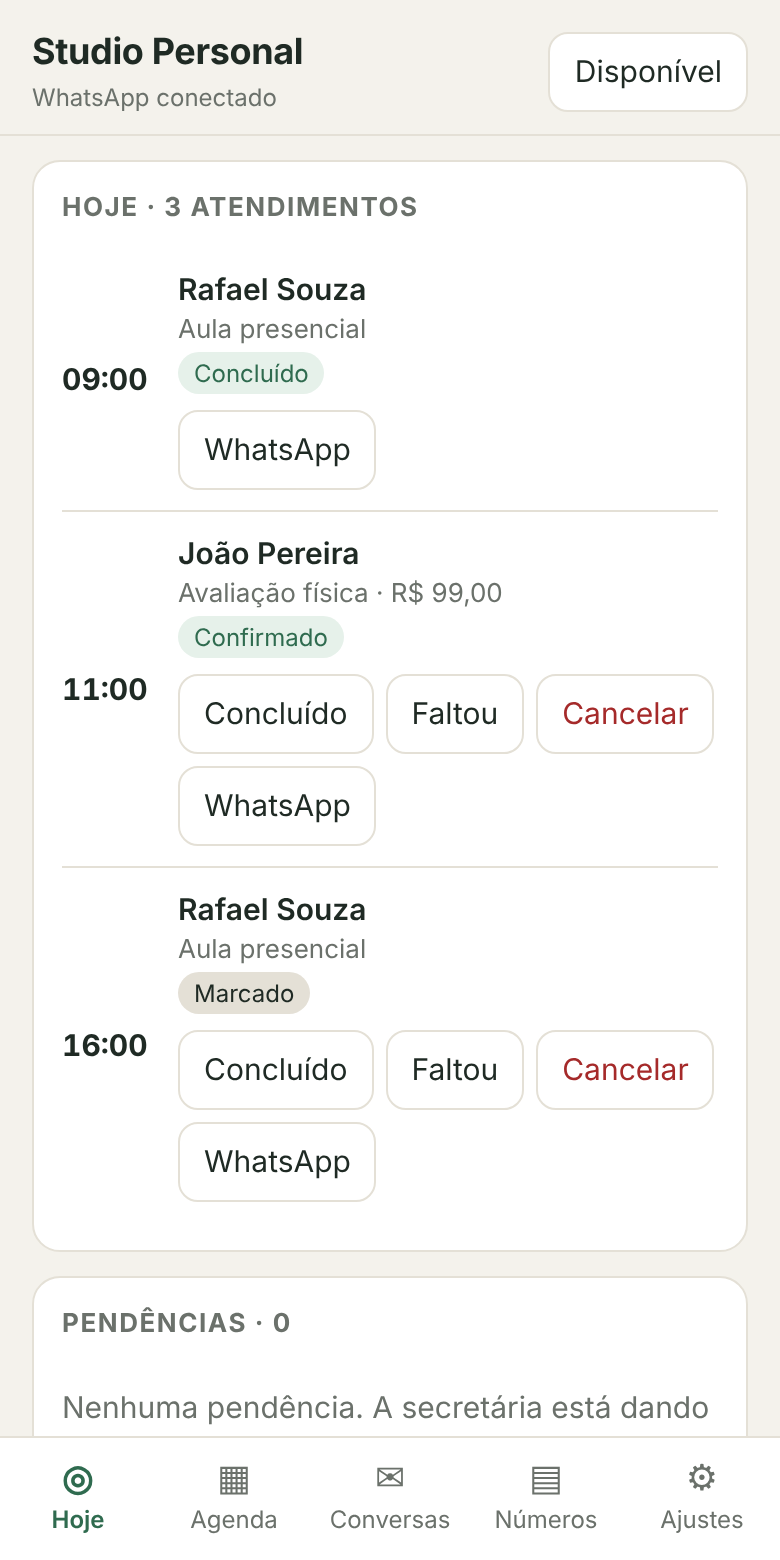
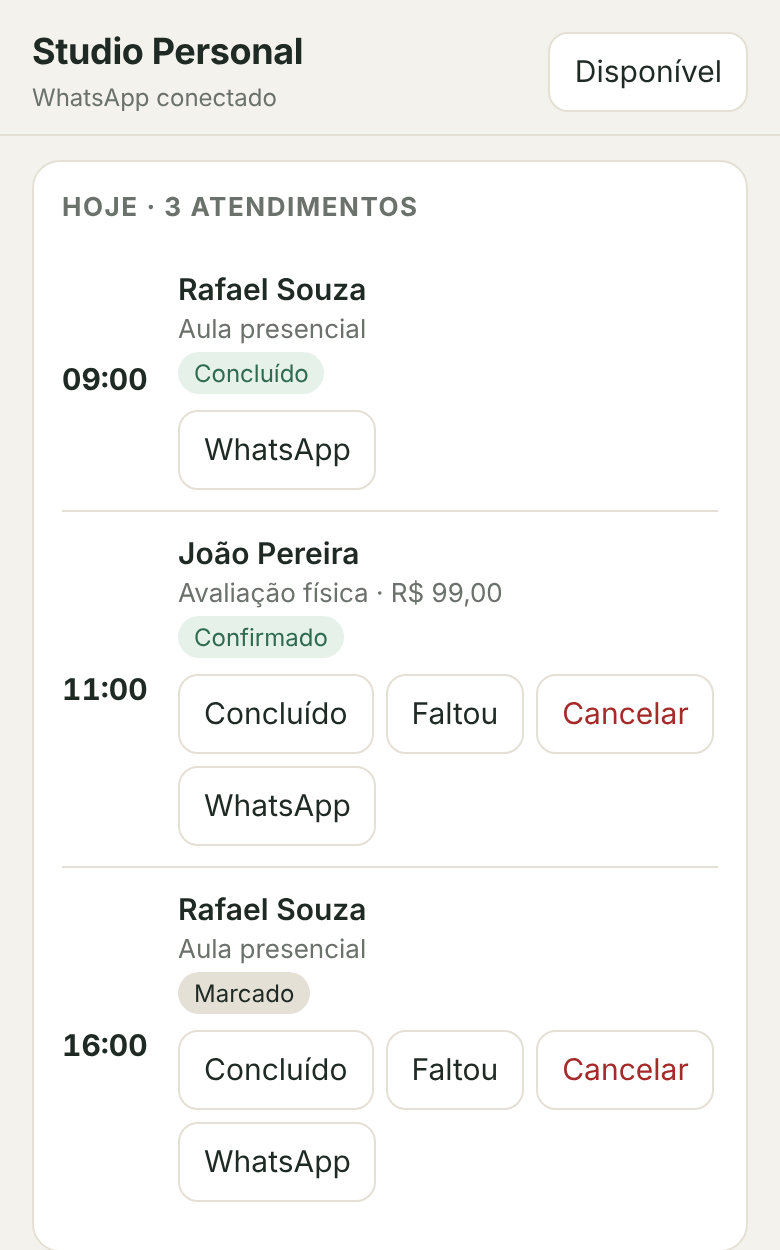
Texto da página inicial mais curto e com preço do site (#42)
- título: "Sistemas sob medida para pequenos negócios: atendimento, agenda e
  finanças"; abertura com a definição de sob medida
- soluções como exemplos, não pacotes; cartões com nome e uma frase
- comparação com 4 linhas; etapas com título e uma frase
- "Quem faz" com o essencial do fundador
- perguntas: de 11 para 7, com "O que é um sistema sob medida?" na frente,
  site simples a partir de R$ 1.500 e no ar em até 10 dias depois que o
  cliente aprova a versão final
- marcIA pode informar só esse preço e esse prazo; o resto segue na proposta
- página de 1.316 para 611 palavras

Claude-Session: https://claude.ai/code/session_01G98QT6YPnmbav7dBjAuo4g

diff --git a/src/data/site.ts b/src/data/site.ts
@@ -31,7 +31,7 @@ export const contact = {
   whatsapp: `https://wa.me/${whatsappNumber}?text=${encodeURIComponent(whatsappMessage)}`,
   instagramProfile: 'https://www.instagram.com/pfc.solucoes/',
   email: 'contato@pfcsolucoes.com.br',
-  ctaLabel: 'Contar meu problema para a marcIA',
+  ctaLabel: 'Conversar com a marcIA',
 };
 
 // Atendente de IA do site (primeiro contato). Instruções em src/lib/assistant/.
@@ -83,15 +83,14 @@ export const footer = {
 // (o que oferecemos, como melhora a vida dele, o que fazer agora).
 
 export const hero = {
-  eyebrow: 'Sistemas sob medida para autônomos e pequenas empresas',
-  title: 'Atendimento por IA no WhatsApp',
-  highlight: 'e agenda online para pequenos negócios.',
-  lead: 'Primeiro entendemos como o seu negócio funciona hoje. Depois construímos só o que resolve o seu maior problema, e você usa pelo celular.',
+  title: 'Sistemas sob medida para pequenos negócios:',
+  highlight: 'atendimento, agenda e finanças',
+  lead: 'Cada sistema é feito de acordo com a necessidade do seu negócio, nada genérico. Você usa tudo pelo celular.',
   primaryCta: 'Conversar com a marcIA',
-  secondaryCta: { href: '#solucoes', label: 'Ver o que já entregamos' },
+  secondaryCta: { href: '#solucoes', label: 'Ver exemplos' },
   // Print real da marcIA (conversa de teste no site em produção).
   shotCaption: 'A marcIA, atendente com IA deste site, numa conversa de teste.',
-  note: 'A marcIA é a nossa atendente virtual. A conversa é sem compromisso.',
+  note: 'Conversa sem compromisso com a nossa atendente virtual.',
 };
 
 // Tipos de negócio atendidos: faixa logo abaixo do topo.
@@ -136,27 +135,20 @@ export type Solution = {
   title: string;
   description: string;
   features: string[];
-  project: string;
+  project?: string;
 };
 
 export const solutions = {
-  title: 'Sistemas sob medida que já construímos para pequenos negócios',
-  lead: 'Estes são os sistemas que já entregamos. O seu parte do mesmo ponto: do problema que você tem hoje, não de uma lista.',
-  closing: 'Seu caso não está aqui? Já fizemos de agenda de barbearia a app de finanças.',
-  more: 'Conte qual é para a marcIA',
+  title: 'Exemplos do que já construímos',
+  lead: 'Cada projeto parte da necessidade de quem contrata. Estes são exemplos, não pacotes prontos.',
+  closing: 'Precisa de outra coisa?',
+  more: 'Conte para a marcIA',
   items: [
     {
       area: 'Atendimento',
-      title: 'Agente de IA no WhatsApp: responde e marca horário quando você não pode',
-      description: 'Conversa com o seu cliente em linguagem natural, inclusive à noite e no fim de semana, e cuida da agenda por você.',
-      features: [
-        'Entende pedidos como "amanhã depois das 18" e marca, remarca ou cancela na agenda real',
-        'Manda o Pix do sinal na própria conversa',
-        'Lembra o cliente na véspera, com botão para confirmar',
-        'Quando alguém desmarca, oferece o horário para quem está na fila de espera',
-        'Você acompanha agenda e conversas por um painel no celular',
-      ],
-      project: 'Agente de IA no WhatsApp com painel para o dono',
+      title: 'Agente de IA no WhatsApp',
+      description: 'Responde, marca, remarca e cancela na agenda real, a qualquer hora.',
+      features: ['Envia o Pix do sinal na conversa', 'Lembra o cliente na véspera', 'Oferece o horário vago para a fila de espera'],
       shot: {
         file: 'painel-hoje',
         alt: 'Tela Hoje do painel no celular: três atendimentos do dia com horário, cliente, serviço e botões Concluído, Faltou e Cancelar',
@@ -165,32 +157,21 @@ export const solutions = {
     },
     {
       area: 'Agenda',
-      title: 'Agenda online: o cliente marca sozinho pelo celular',
-      description: 'Uma página de agendamento só sua, com os seus serviços e horários.',
-      features: [
-        'Mostra só os horários em que o atendimento inteiro cabe',
-        'Reconhece quem já agendou naquele celular',
-        'Você recebe o aviso no WhatsApp, com a mensagem pronta',
-        'Horário cancelado volta a ficar livre na hora',
-      ],
-      project: 'Agenda online para barbearia',
+      title: 'Agenda online',
+      description: 'O cliente escolhe serviço e horário pelo celular. Só aparecem horários em que o atendimento inteiro cabe.',
+      features: [],
     },
     {
       area: 'Finanças',
-      title: 'App de controle financeiro: entradas, saídas e contas fixas no celular',
-      description: 'Para Android e iPhone, sem planilha complicada.',
-      features: [
-        'Lembrete das contas que se repetem todo mês',
-        'Importa lançamentos de uma planilha do Excel',
-      ],
-      project: 'App de finanças para Android e iPhone',
+      title: 'App de finanças',
+      description: 'Entradas, saídas e contas fixas no Android e no iPhone. Importa planilhas do Excel.',
+      features: [],
     },
     {
       area: 'Presença online',
-      title: 'Site profissional: abre rápido e leva direto para o seu WhatsApp',
-      description: 'Este site, por exemplo, tira mais de 90 de 100 em velocidade no celular no teste do Google (Lighthouse).',
-      features: ['Serviços, planos e depoimentos', 'Botão para o WhatsApp com mensagem pronta'],
-      project: 'Site de consultoria para personal trainer',
+      title: 'Site profissional',
+      description: 'Feito para o celular, com botão direto para o seu WhatsApp. Este site tira mais de 90 de 100 no teste de velocidade do Google.',
+      features: [],
     },
   ] satisfies Solution[],
 };
@@ -206,34 +187,34 @@ type ProcessStep = {
 // Método de trabalho. A marcIA também usa este texto, então ele precisa
 // refletir o que a PFC realmente faz em cada etapa.
 export const process = {
-  title: 'Como trabalhamos, em 4 etapas',
-  lead: 'Você só decide se contrata na segunda etapa, depois de ver a proposta.',
+  title: 'Como funciona',
+  lead: 'Você decide se contrata na etapa 2, com a proposta em mãos.',
   steps: [
     {
       title: 'Levantamento',
       summary: 'Entendemos a sua rotina',
-      text: 'Uma conversa sobre como o seu negócio funciona hoje e onde você sente que está perdendo cliente.',
+      text: 'Conversa online sobre a sua rotina e onde você perde clientes.',
       deliverable: 'O que vale resolver primeiro, e se um sistema resolve mesmo o seu problema.',
       participation: 'Uma conversa online, sem compromisso.',
     },
     {
-      title: 'Análise',
+      title: 'Proposta',
       summary: 'Encontramos as perdas e definimos o escopo',
-      text: 'Medimos quanto cada problema custa para você e começamos pelo que dá retorno mais rápido.',
+      text: 'Escopo, prazo e valor por escrito. Você aprova, ajusta ou desiste.',
       deliverable: 'Uma proposta escrita com escopo, prazo e valor, antes de começar.',
       participation: 'Você aprova, pede ajustes ou decide não seguir.',
     },
     {
       title: 'Construção',
       summary: 'Desenhamos e construímos em partes',
-      text: 'Desenhamos o caminho do seu cliente, do primeiro contato ao pagamento, e construímos em partes.',
+      text: 'Construímos em partes. Você testa as telas com os seus serviços e preços.',
       deliverable: 'Telas para testar antes da versão final, já com os seus serviços e preços.',
       participation: 'Você testa durante a construção e diz o que ajustar.',
     },
     {
-      title: 'Entrega e acompanhamento',
+      title: 'Entrega',
       summary: 'Entregamos funcionando e acompanhamos',
-      text: 'Colocamos no ar com os dados do seu negócio e mostramos como usar no dia a dia.',
+      text: 'Sistema no ar com os dados do seu negócio e acompanhamento depois da entrega.',
       deliverable: 'O sistema funcionando e acompanhamento para ajustar o que aparecer no uso.',
       participation: 'Você usa na rotina e conta o que pode melhorar.',
     },
@@ -243,6 +224,9 @@ export const process = {
 export const about = {
   name: 'Pietro Cosentino',
   role: 'Fundador da PFC Soluções',
+  // Texto curto da página inicial (a bio completa segue para a marcIA e o Google).
+  short:
+    'A PFC Soluções em Tecnologia foi fundada por Pietro Cosentino: 9 anos em tecnologia como Product Owner e analista de requisitos, em educação, pagamentos e sistemas corporativos. Você fala com ele do levantamento à entrega.',
   bio: 'Pietro tem 9 anos de experiência em tecnologia, como Product Owner e analista de requisitos, de sistemas e funcional sênior, em projetos de educação, pagamentos e sistemas corporativos. Está cursando MBA em Inteligência Artificial para Negócios. A PFC Soluções leva esse olhar de negócio para quem não tem um time de tecnologia.',
   linkedin: 'https://www.linkedin.com/in/pietro-cosentino',
   portfolio: { href: 'https://www.pietrocosentino.com.br/', label: 'Ver trajetória completa' },
@@ -250,19 +234,14 @@ export const about = {
 
 // Seção que ajuda a decidir entre sistema sob medida e aplicativo pronto.
 export const comparison = {
-  title: 'Sistema sob medida ou aplicativo pronto: qual vale mais para o seu negócio?',
-  lead: 'Um aplicativo pronto serve quando a sua rotina é igual à da maioria. Um sistema sob medida vale quando o aplicativo obriga você a manter planilha ou caderno do lado.',
+  title: 'Sob medida ou aplicativo pronto?',
   columns: ['Aplicativo pronto', 'Sistema sob medida'],
   rows: [
-    { label: 'Para começar', ready: 'Rápido: você assina e configura', custom: 'Começa com um levantamento da sua rotina' },
-    { label: 'Quem se adapta', ready: 'Você se adapta ao aplicativo', custom: 'O sistema se adapta ao seu jeito de trabalhar' },
-    { label: 'Partes do negócio', ready: 'Costuma cobrir uma parte; o resto fica em planilha, papel ou WhatsApp', custom: 'Atendimento, agenda, cobrança e finanças juntos, sem digitar duas vezes' },
-    { label: 'WhatsApp', ready: 'Depende do aplicativo e do plano', custom: 'Agente de IA que atende e agenda pelo WhatsApp, quando fizer sentido' },
-    { label: 'Ajustes', ready: 'Pelo suporte, quando o recurso existe', custom: 'Você fala direto com quem construiu o sistema' },
-    { label: 'Valor', ready: 'Mensalidade por plano', custom: 'Definido na proposta, antes de você decidir' },
+    { label: 'Para começar', ready: 'Você assina e configura', custom: 'Começa com um levantamento da sua rotina' },
+    { label: 'Partes do negócio', ready: 'Costuma cobrir uma; o resto fica em planilha', custom: 'Atendimento, agenda, cobrança e finanças juntos' },
+    { label: 'Ajustes', ready: 'Pelo suporte, quando o recurso existe', custom: 'Direto com quem construiu' },
+    { label: 'Valor', ready: 'Mensalidade por plano', custom: 'Definido na proposta' },
   ],
-  closing: 'Não sabe qual é o seu caso? É isso que a primeira conversa responde.',
-  more: 'Descobrir o que funciona para o meu negócio',
 };
 
 export const faq = {
@@ -270,52 +249,36 @@ export const faq = {
   items: [
     {
       question: 'O que é um sistema sob medida?',
-      answer: 'É um sistema criado a partir da rotina do seu negócio, em vez de um aplicativo genérico. Ele faz o que você precisa, do jeito que você trabalha, e junta atendimento, agenda, cobrança e finanças num lugar só.',
+      answer: 'É um sistema feito de acordo com a necessidade de cada cliente, nada genérico. Ele segue o jeito como o seu negócio já funciona, em vez de obrigar você a se adaptar a um aplicativo pronto.',
+    },
+    {
+      question: 'Quanto custa?',
+      answer: 'Sites profissionais simples a partir de R$ 1.500. Agentes de IA, agendas e outros sistemas dependem do que você precisa: quantos serviços e canais, se integra com WhatsApp e Pix, e quanto acompanhamento quer depois da entrega. O valor fechado está na proposta.',
+    },
+    {
+      question: 'Quanto tempo leva?',
+      answer: 'Um site simples entra no ar em até 10 dias depois que você aprova a versão final. Para os outros sistemas, o prazo depende do escopo e está na proposta.',
     },
     {
       question: 'Preciso entender de tecnologia?',
-      answer: 'Não. A gente cuida da parte técnica e entrega tudo funcionando, com uma explicação simples de como usar.',
+      answer: 'Não. Você recebe o sistema funcionando e uma explicação de uso.',
     },
     {
-      question: 'Quanto custa um sistema sob medida para pequena empresa?',
-      answer: 'O valor depende do escopo: quantos serviços e canais o sistema atende, se integra com WhatsApp e pagamento por Pix, e quanto acompanhamento você quer depois da entrega. Ele sai na proposta, depois do levantamento, sem compromisso de contratar.',
+      question: 'Funciona com o WhatsApp que eu já uso?',
+      answer: 'O agente atende pelo WhatsApp. Número e custos do WhatsApp estão descritos na proposta.',
     },
     {
-      question: 'Quanto tempo leva para ficar pronto?',
-      answer: 'Depende do que o seu negócio precisa. O prazo é definido depois do levantamento, antes de você decidir contratar.',
-    },
-    {
-      question: 'Vale mais que um aplicativo pronto?',
-      answer: 'Vale quando o aplicativo pronto obriga você a usar planilha ou papel junto, ou quando não conversa com o seu WhatsApp. No levantamento, a gente entende a sua rotina antes de propor qualquer coisa.',
-    },
-    {
-      question: 'Serve para MEI e autônomo?',
-      answer: 'Sim. A PFC atende principalmente quem trabalha sozinho ou com uma equipe pequena: barbearias, salões, clínicas, consultórios, personal trainers e prestadores de serviço.',
-    },
-    {
-      question: 'Funciona junto com o WhatsApp que eu já uso?',
-      answer: 'O agente de IA atende os seus clientes pelo WhatsApp. Como fica o número e os custos do WhatsApp vêm descritos na proposta.',
-    },
-    {
-      question: 'Funciona no celular?',
-      answer: 'Sim. Tudo é pensado para ser usado no celular, por você e pelos seus clientes.',
-    },
-    {
-      question: 'Vocês atendem só a minha cidade?',
-      answer: 'Não. O atendimento é online, para todo o Brasil.',
+      question: 'Vocês atendem a minha cidade?',
+      answer: 'O atendimento é online, para todo o Brasil.',
     },
     {
       question: 'Quem é a marcIA?',
-      answer: 'É a nossa atendente virtual, com inteligência artificial. Ela tira as suas dúvidas na hora, entende o seu caso e, quando ele estiver claro, o Pietro recebe tudo resumido para cuidar pessoalmente.',
-    },
-    {
-      question: 'E se eu precisar de algo que não está na lista?',
-      answer: 'Conte o seu problema. As soluções do site são exemplos: cada projeto parte do caso de quem contrata.',
+      answer: 'Nossa atendente virtual com inteligência artificial, disponível a qualquer hora.',
     },
   ],
 };
 
 export const contactSection = {
-  title: 'Vamos criar o sistema do seu negócio?',
-  lead: 'Conte para a marcIA, nossa atendente, o que mais toma o seu tempo hoje. Ela entende o seu caso na hora e prepara tudo para o Pietro chegar já sabendo do que você precisa.',
+  title: 'Conte o que está dando trabalho',
+  lead: 'A marcIA faz as primeiras perguntas e o Pietro recebe o resumo.',
 };

diff --git a/src/lib/assistant/knowledge.ts b/src/lib/assistant/knowledge.ts
@@ -18,7 +18,7 @@ export const howWeWork = `
 - Problema primeiro, tecnologia depois. A PFC não vende pacote pronto: entende a rotina do negócio, encontra onde estão as perdas e só então desenha a solução.
 - Etapas: levantamento (conversa online sem compromisso sobre a rotina, com resposta honesta se a tecnologia resolve), análise (perdas priorizadas e proposta com escopo, prazo e investimento), construção (fluxo desenhado sob medida e construído em partes, com telas para o cliente validar) e entrega e acompanhamento (sistema no ar com os dados do negócio, explicação de uso e acompanhamento). Os detalhes de cada etapa estão na seção de etapas abaixo.
 - Proposta: depois do levantamento, o cliente recebe uma proposta clara, sem compromisso de contratar.
-- Preço e prazo: dependem do que o negócio precisa e só são definidos na proposta. Nunca estime valores, faixas, mensalidades, descontos, formas de pagamento ou prazos, nem compare preços com concorrentes.
+- Preço e prazo: a única referência pública é o site profissional simples, a partir de R$ 1.500 e no ar em até 10 dias depois que o cliente aprova a versão final. Todo o resto depende do que o negócio precisa e só é definido na proposta: nunca estime outros valores, faixas, mensalidades, descontos, formas de pagamento ou prazos, nem compare preços com concorrentes.
 - As soluções se combinam: atendimento, agenda, cobrança e finanças podem funcionar juntos, sem digitar a mesma informação duas vezes.
 - O cliente não precisa entender de tecnologia: a PFC cuida da parte técnica e entrega com explicação simples de uso.
 - Tudo é pensado para o celular, do dono e dos clientes dele.
@@ -108,7 +108,7 @@ Quem chega aqui geralmente está cansado de um problema que se repete. Faça a p
 - Se a pessoa for grosseira, mantenha a educação e ofereça ajuda uma vez; não discuta.
 
 # Perguntas e objeções comuns
-- "Quanto custa?" Explique que o valor depende do que o negócio precisa e sai na proposta, depois do levantamento, sem compromisso. Pergunte o que ela precisa resolver; quando o caso estiver claro, ofereça o encaminhamento para o Pietro preparar a proposta.
+- "Quanto custa?" Se for um site simples, diga que começa em R$ 1.500. Para o resto, explique que o valor depende do que o negócio precisa e sai na proposta, depois do levantamento, sem compromisso. Pergunte o que ela precisa resolver; quando o caso estiver claro, ofereça o encaminhamento para o Pietro preparar a proposta.
 - "Quanto tempo leva?" Mesmo raciocínio: o prazo sai na proposta, conforme o escopo.
 - "É caro" ou "não tenho dinheiro agora": mostre o custo de não resolver (cliente que vai para o concorrente, horário vazio, dinheiro que some no fim do mês) e lembre que a proposta é feita para o tamanho do negócio, sem compromisso.
 - "Não entendo de tecnologia": a PFC cuida de tudo e entrega com explicação simples; o dono só usa no celular.

diff --git a/tests/assistant.test.ts b/tests/assistant.test.ts
@@ -113,7 +113,9 @@ test('a marcIA conhece o piloto, mas não informa valores', () => {
   const text = systemPrompt();
   assert.match(text, /Piloto para negócios de agendamento/);
   assert.match(text, /nunca informe números/);
-  assert.doesNotMatch(text, /R\$\s?\d/);
+  // O único valor público é o do site simples; nenhum outro preço aparece nas instruções.
+  const prices = text.match(/R\$\s?\d{1,3}(?:\.\d{3})*(?:,\d{2})?/g) ?? [];
+  assert.ok(prices.length > 0 && prices.every((p) => p === 'R$ 1.500'), prices.join(', '));
   assert.match(text, /Nunca invente preço/);
 });
 
